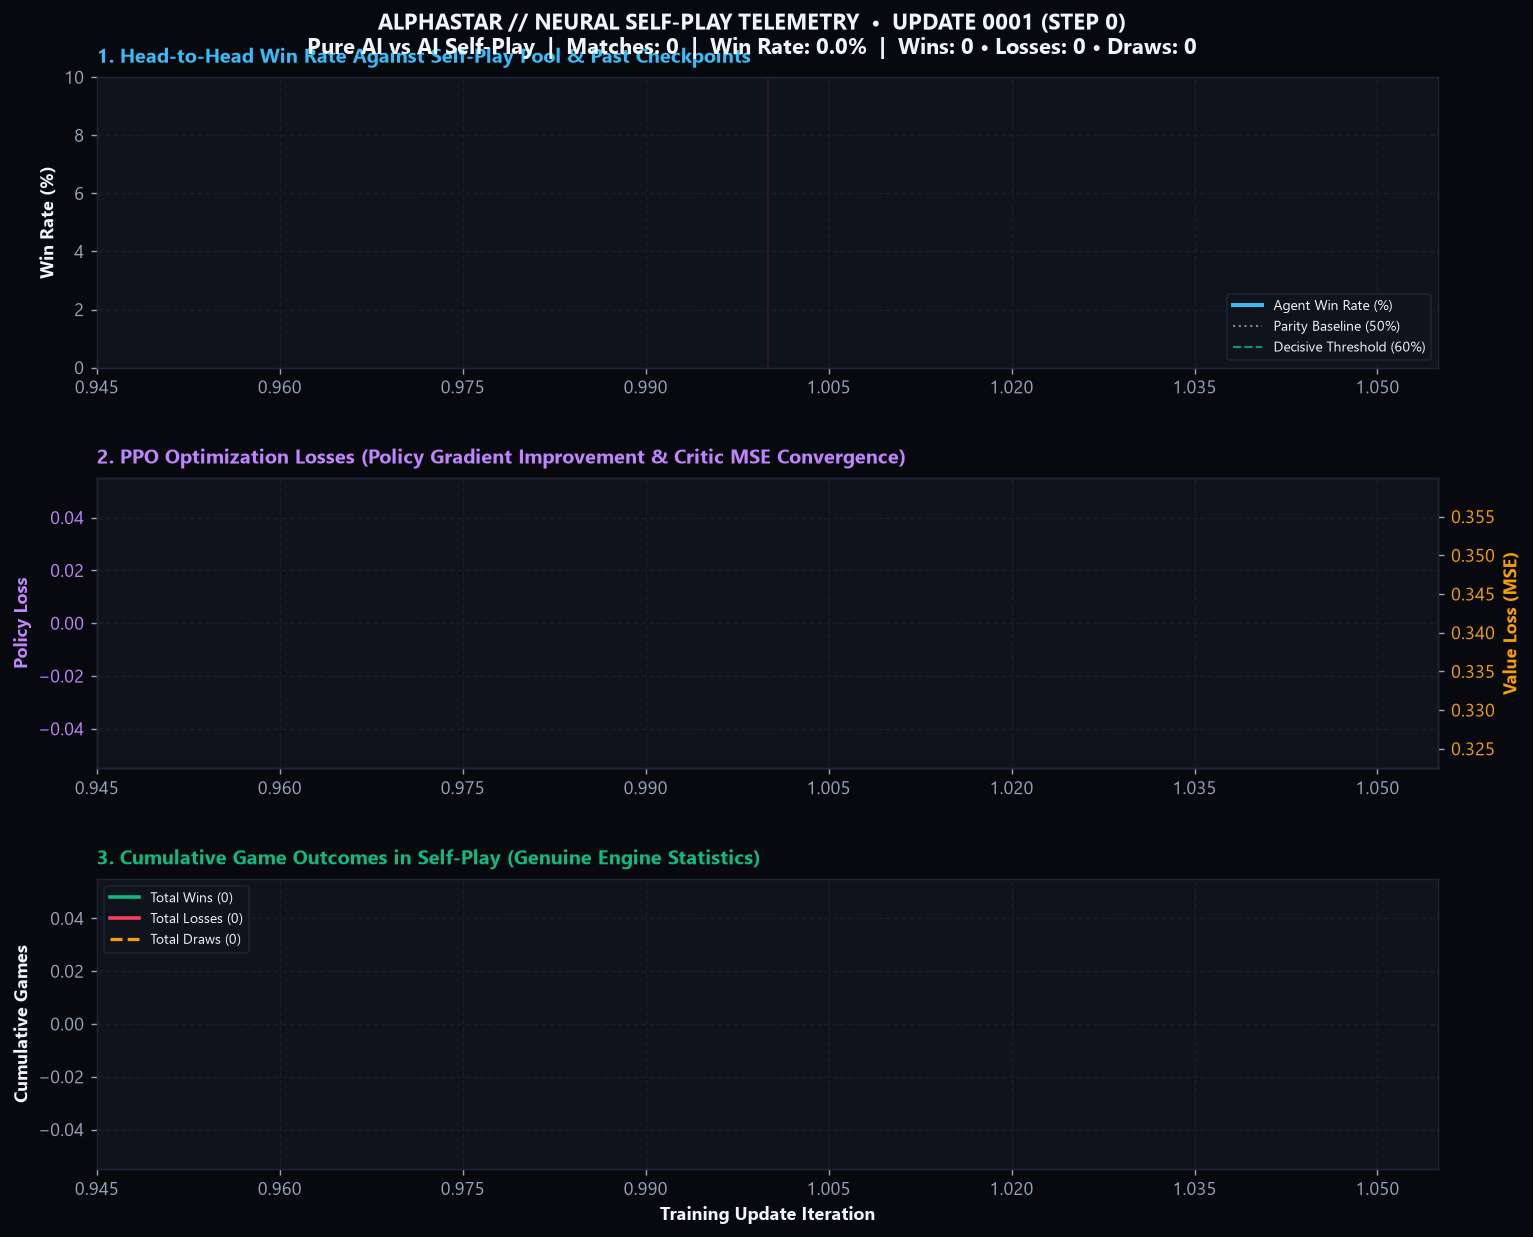
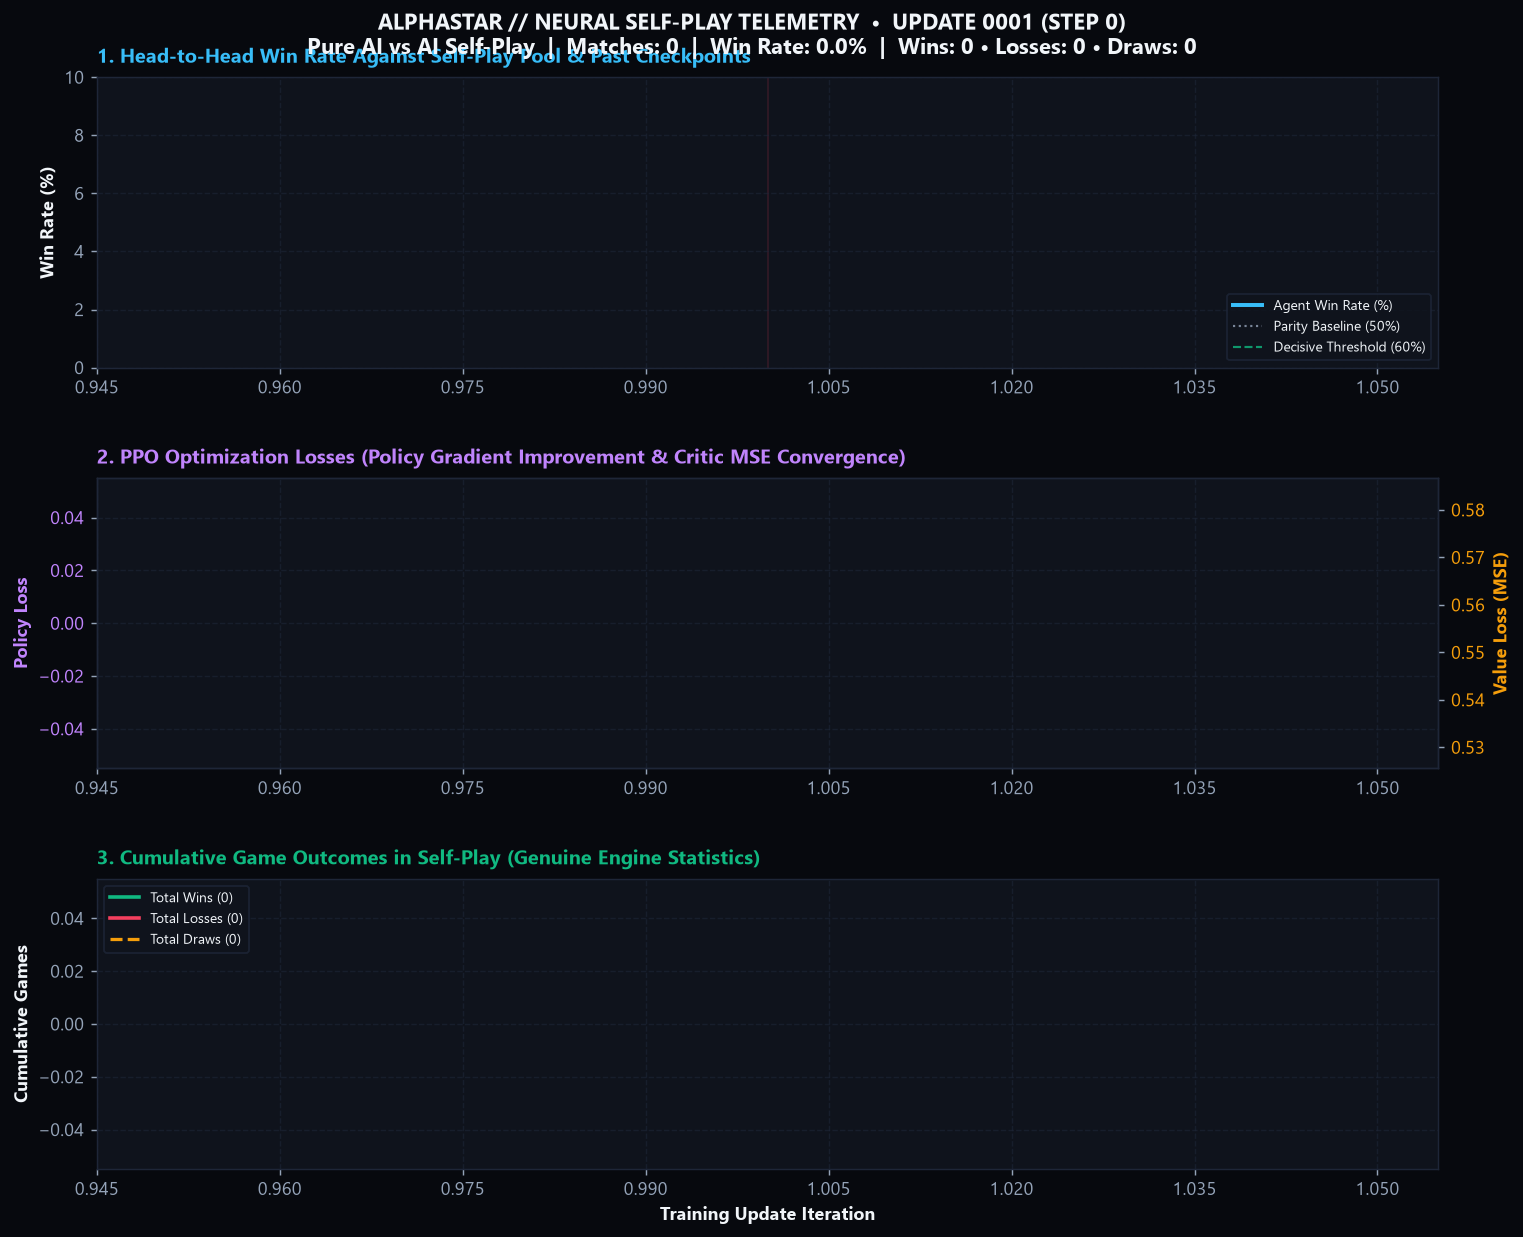
fix(deploy): harden is_in_battle against purple modals, clean history, and validate live match 22

diff --git a/deploy_mumu.py b/deploy_mumu.py
@@ -998,10 +998,10 @@ class PerceptionAdapter:
             cycle = [c for c in self.active_deck if c not in self.tracked_hand]
             self.tracked_next = cycle[0] if cycle else self.active_deck[0]
 
-    def detect_home_battle_button(self, frame: np.ndarray) -> Optional[Tuple[int, int]]:
+    def detect_home_battle_button(self, frame: np.ndarray, check_battle: bool = True) -> Optional[Tuple[int, int]]:
         """Detects the yellow 'Battle' button on the Clash Royale Home Screen."""
         # Never match on an active arena battle
-        if self.is_in_battle(frame):
+        if check_battle and self.is_in_battle(frame):
             return None
 
         h, w = frame.shape[:2]
@@ -1047,7 +1047,7 @@ class PerceptionAdapter:
         for c in b_cnts:
             bx, by, bw, bh = cv2.boundingRect(c)
             cx = bx + bw // 2
-            if bw > 100 and bh > 40 and int(w * 0.35) <= cx <= int(w * 0.88):
+            if 120 <= bw <= 450 and 35 <= bh <= 140 and int(w * 0.35) <= cx <= int(w * 0.88):
                 cy = int(h * 0.80) + by + bh // 2
                 return "ok", cx, cy
 
@@ -1057,14 +1057,23 @@ class PerceptionAdapter:
         for c in y_cnts:
             bx, by, bw, bh = cv2.boundingRect(c)
             cx = bx + bw // 2
-            if bw > 80 and bh > 35 and int(w * 0.15) <= cx <= int(w * 0.55):
+            if 80 <= bw <= 350 and 35 <= bh <= 120 and int(w * 0.15) <= cx <= int(w * 0.55):
                 cy = int(h * 0.80) + by + bh // 2
                 return "play_again", cx, cy
 
         return None
 
     def is_in_battle(self, frame: np.ndarray) -> bool:
-        """Determines if a match is actively in progress (solid purple elixir bar present)."""
+        """
+        Determines if a match is actively in progress.
+        Checks:
+        1. Aspect ratio is portrait.
+        2. Home screen 'Battle' button is NOT active.
+        3. Elixir bar container has solid purple fill (>= 30 columns).
+        4. Purple is strictly localized to the horizontal elixir bar container and not
+           predominantly distributed across arena, card tray, or full screen (rejects
+           full-screen purple modals like Mystery Box or Trophy Road animations).
+        """
         h, w = frame.shape[:2]
         if w > h:
             return False
@@ -1077,12 +1086,29 @@ class PerceptionAdapter:
         if crop.size == 0:
             return False
 
-        hsv = cv2.cvtColor(crop, cv2.COLOR_BGR2HSV)
-        purple_mask = cv2.inRange(hsv, np.array([125, 50, 50]), np.array([170, 255, 255]))
+        crop_hsv = cv2.cvtColor(crop, cv2.COLOR_BGR2HSV)
+        purple_mask = cv2.inRange(crop_hsv, np.array([125, 50, 50]), np.array([170, 255, 255]))
         col_sums = np.sum(purple_mask > 0, axis=0)
         filled_cols = np.where(col_sums > (crop.shape[0] * 0.35))[0]
         # Real battle has 50 to 520 solid columns of purple. Home screen has at most 3.
-        return len(filled_cols) >= 30
+        if len(filled_cols) < 30:
+            return False
+
+        # Purple localization check: Ensure purple fill is strictly localized to the
+        # horizontal elixir bar container and that surrounding areas (arena, card tray, full screen)
+        # are not predominantly purple (full-screen purple modals have purple across multiple bands).
+        full_hsv = cv2.cvtColor(frame, cv2.COLOR_BGR2HSV)
+        full_purple = cv2.inRange(full_hsv, np.array([125, 50, 50]), np.array([170, 255, 255]))
+
+        full_ratio = float(np.mean(full_purple > 0))
+        arena_ratio = float(np.mean(full_purple[int(h * 0.10):int(h * 0.70), :] > 0))
+        tray_ratio = float(np.mean(full_purple[int(h * 0.75):int(h * 0.94), :] > 0))
+        above_bar_ratio = float(np.mean(full_purple[int(h * 0.90):ey1, ex1:ex2] > 0))
+
+        if full_ratio > 0.15 or arena_ratio > 0.12 or tray_ratio > 0.20 or above_bar_ratio > 0.40:
+            return False
+
+        return True
 
     def score_match(self, frame: np.ndarray) -> Tuple[str, int, int, int]:
         """

diff --git a/tests/test_deploy_mumu.py b/tests/test_deploy_mumu.py
@@ -4,6 +4,7 @@ from pathlib import Path
 import struct
 import sys
 
+import cv2
 import numpy as np
 import pytest
 import torch
@@ -363,6 +364,39 @@ def test_calibrate_game_column_preserves_calibrated_coordinates():
     assert adapter.elixir_box["bottom"] == 0.988
     assert adapter.hand_xs[0] > 0.30  # scaled into pillar
     assert adapter.elixir_box["left"] > 0.20  # scaled into pillar
+
+
+def test_is_in_battle_rejects_full_screen_purple_modals():
+    adapter = PerceptionAdapter(device=torch.device("cpu"))
+    # 1. Full-screen purple modal frame (like Mystery Box chest opening animation)
+    modal_frame = np.zeros((1600, 900, 3), dtype=np.uint8)
+    modal_frame[:] = cv2.cvtColor(np.uint8([[[145, 180, 200]]]), cv2.COLOR_HSV2BGR)[0, 0]
+    adapter.calibrate_game_column(modal_frame)
+    assert not adapter.is_in_battle(modal_frame)
+
+    # 2. Modal with purple across arena and card tray bands
+    partially_purple_modal = np.zeros((1600, 900, 3), dtype=np.uint8)
+    partially_purple_modal[100:1500, :] = cv2.cvtColor(np.uint8([[[140, 160, 200]]]), cv2.COLOR_HSV2BGR)[0, 0]
+    assert not adapter.is_in_battle(partially_purple_modal)
+
+
+def test_is_in_battle_accepts_genuine_battle_frame():
+    adapter = PerceptionAdapter(device=torch.device("cpu"))
+    # Genuine battle frame: green arena, dark card tray, localized purple elixir bar fill
+    frame = np.zeros((1600, 900, 3), dtype=np.uint8)
+    frame[100:1150, :] = [45, 120, 45]  # Green arena grass
+    frame[1150:1540, :] = [30, 30, 35]  # Dark card tray
+
+    # Localized elixir fill in elixir container
+    adapter.calibrate_game_column(frame)
+    ey1 = int(adapter.elixir_box["top"] * frame.shape[0])
+    ey2 = int(adapter.elixir_box["bottom"] * frame.shape[0])
+    ex1 = int(adapter.elixir_box["left"] * frame.shape[1])
+    ex2 = int(adapter.elixir_box["right"] * frame.shape[1])
+    purple_bgr = cv2.cvtColor(np.uint8([[[145, 200, 220]]]), cv2.COLOR_HSV2BGR)[0, 0]
+    frame[ey1:ey2, ex1:int(ex1 + (ex2 - ex1) * 0.6)] = purple_bgr
+
+    assert adapter.is_in_battle(frame)
 
 
 
